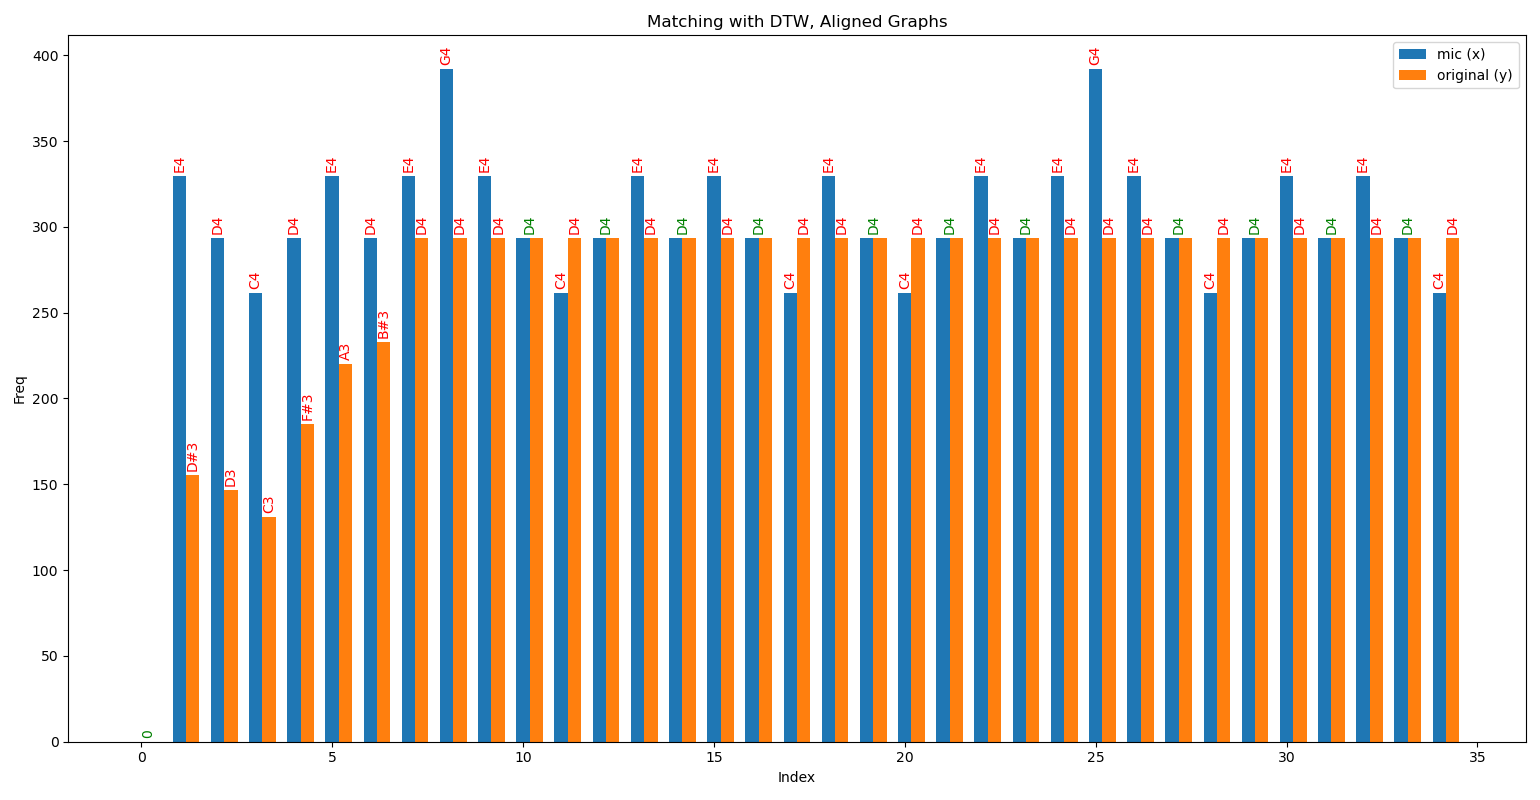
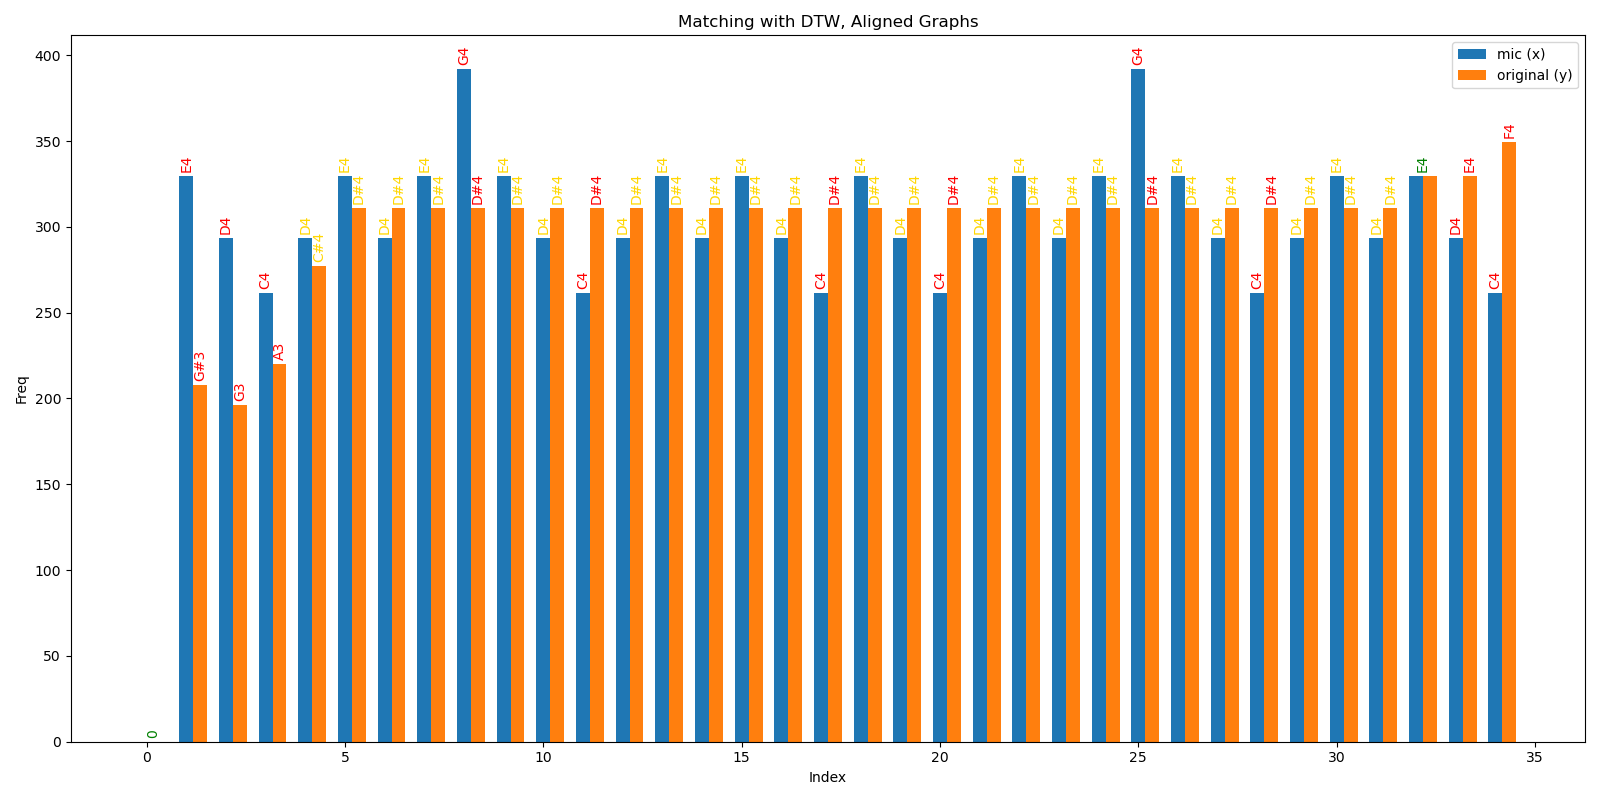
starting frontEnd with Nadia

diff --git a/frontend/MainContent.py b/frontend/MainContent.py
@@ -79,10 +79,10 @@ class MainContent(tk.Frame):
 
     def startMic(self, songName):
         self.oot = OutOfTune()
-        self.oot.read_from_mic(songName)
+        self.comparedSongsObject = self.oot.read_from_mic(songName)
         print(self.getGrade())
 
-        #self.printGraph()
+        self.printGraph()
 
 
     def getGrade(self):
@@ -112,8 +112,7 @@ class MainContent(tk.Frame):
         self.compareOldSongsInFront(songNameWithoutUserName, resultDict[performanceChosenIndex])
 
         self.printGraph()
-        self.oot.hearClips()
-        pass
+        #self.oot.hearClips()
 
 
 

diff --git a/frontend/OutOfTune.py b/frontend/OutOfTune.py
@@ -358,6 +358,7 @@ class OutOfTune:
                 self.dbAccess.add_performance_for_existing_user_and_song(freqsAndTime, songNameWithUserName,
                                                                          performanceId, str_dtw_lst, self.comparedSongs.score)
                 #self.hearClips()
+                return self.comparedSongs
 
     def trimStartOfWavFile(self, filePath):
         try:
